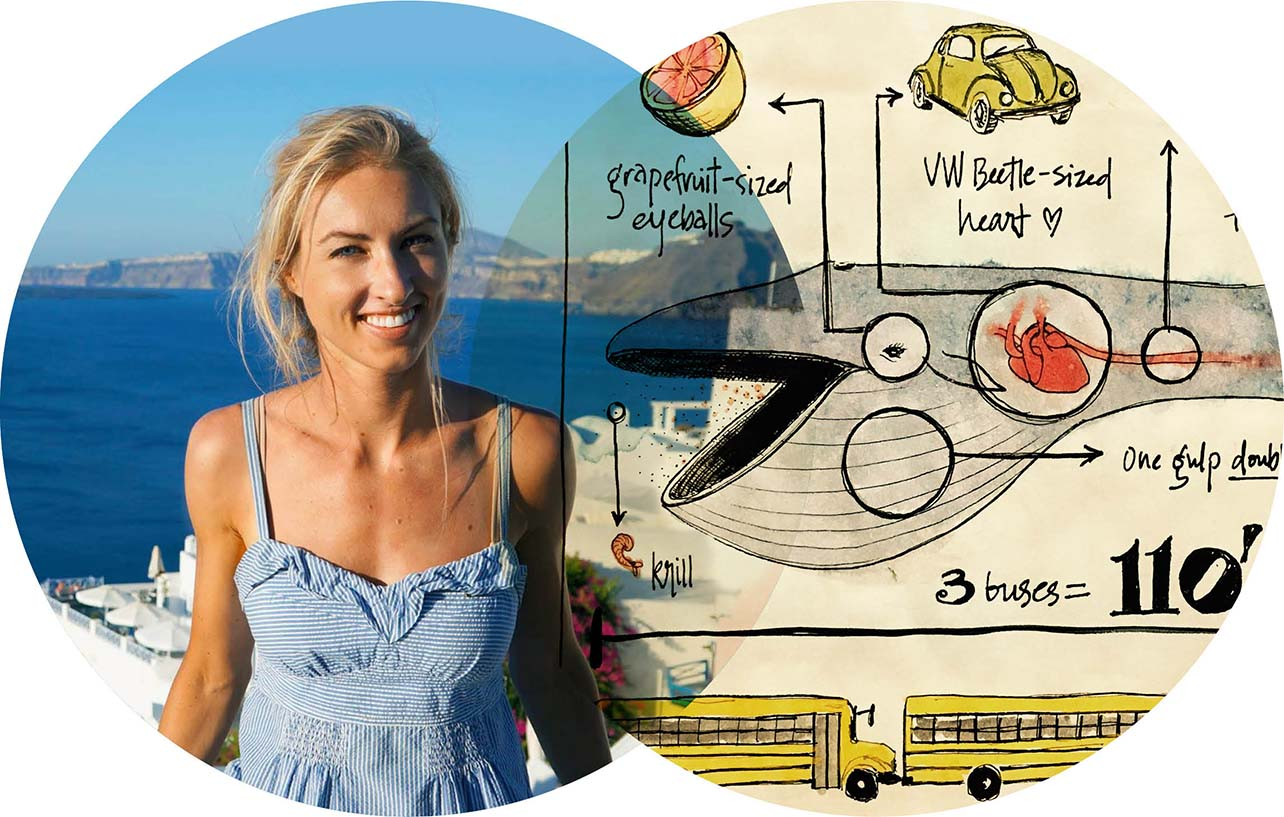
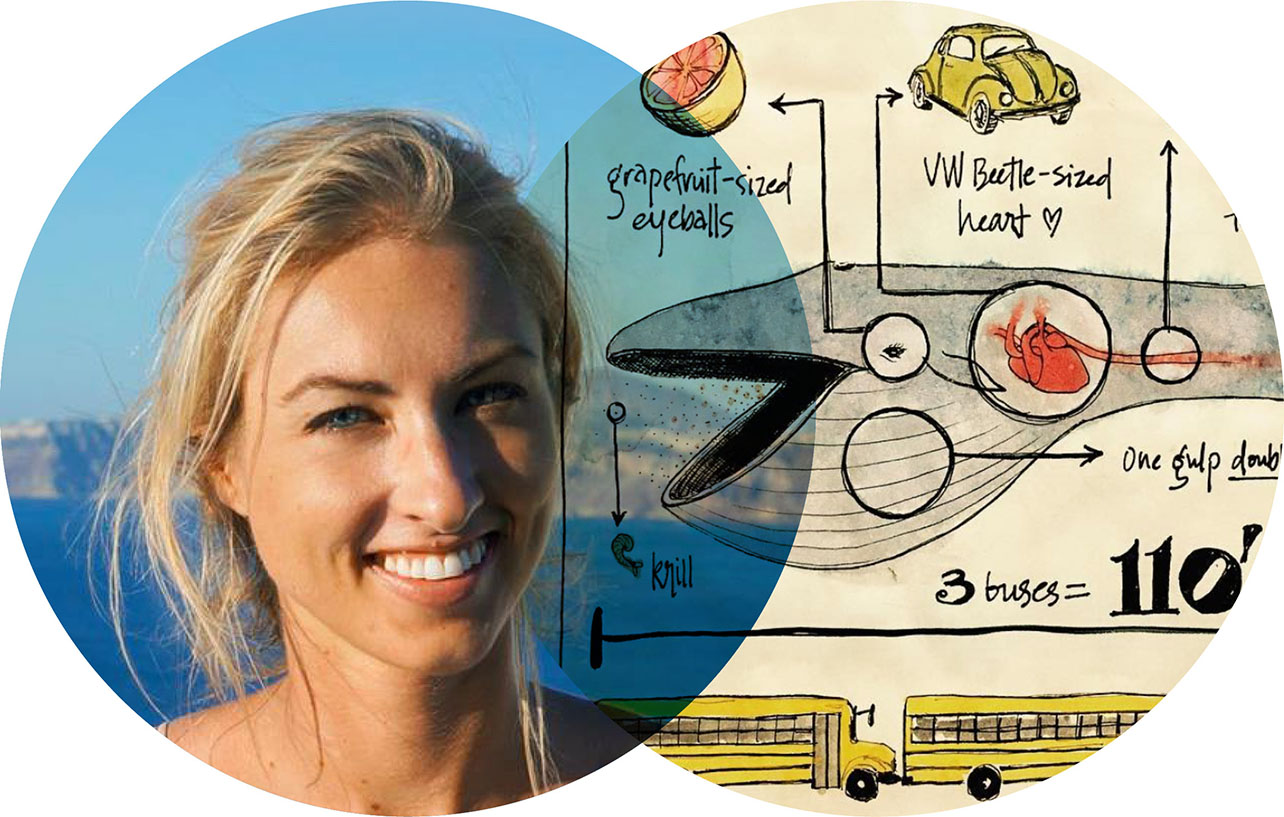
Fixed positioning of postglasses BGs
+ added tentative Measure of a Mtn intro + postglasses BGs

diff --git a/index.html b/index.html
@@ -31,7 +31,7 @@
 
 
 <!-- The url of the current page -->
-<meta property="og:url"                content=">" /> 
+<meta property="og:url"                content=">" />
 
 <!-- This one was found on Pinterest, may not be supported by Facebook -->
 <meta property="og:site_name"          content="Curiosity-Colored Glasses" />
@@ -83,7 +83,7 @@
 <!-- *************************************** ^^^^^ head-close.php snippet ^^^^^ LEAVE ALONE (except maybe favicon links) ^^^^^ *************************************** -->
 
 
-	<h1 id="blogname" class="blackbg">	
+	<h1 id="blogname" class="blackbg">
 		Curiosity-Colored Glasses
 	</h1>
 
@@ -99,7 +99,7 @@
 		<p id="comingsoon">Coming soon!</p>
 		<p class="untilthen s-textface bold">Until then, keep an eye on <a href="https://www.instagram.com/curiositycoloredglasses/" target="_blank" class="underline">@curiositycoloredglasses</a> on Instagram, follow <a href="https://twitter.com/CuriosityColor" target="_blank" class="underline">@curiositycolor</a> on Twitter, and sign up with your email below to be the first to know when Curiosity-Colored Glasses says “Hello, World!"</p>
 		<p class="untilthen s-textface bold">You can also read my <a href="https://liaprins.com/curiosity-colored-glasses" target="_blank" class="underline">portfolio post</a> explaining more about this project and detailing my progress so far.</p>
-		<p class="untilthen xs-textface bold">Expected launch is early spring of 2019.</p>
+		<p class="untilthen xs-textface bold">Expected launch is mid-2020.</p>
 
 	</div>  <!-- closing #comingsoon -->
 
@@ -155,7 +155,7 @@
 			<!-- lift -->
 			<img src="images/mask.svg" style="background-image: url(images/small-glasses/lift.jpg)" id="lift" class="small-postglasses postglasses" title="Is equal transit time real: does air really flow over the top of a wing faster, thereby generating lift? If so, what makes it do this?">
 
-		<!--		
+		<!--
 		<div id="parallax-medium"></div>
 		-->
 
@@ -253,7 +253,7 @@
 			<!-- wheels-on-film -->
 			<img src="images/mask.svg" style="background-image: url(images/big-glasses/wheels-on-film.jpg)" id="wheels-on-film" class="big-postglasses postglasses" title="Why do wheels sometimes look like they're turning backwards on film?">
 
-		
+
 
 		<div id="background"></div>
 
@@ -265,20 +265,20 @@
 
 		<div id="footercontent">
 
-			
+
 			<!-- Subscribe, via MailChimp -->
 			<form action="//curiositycoloredglasses.us14.list-manage.com/subscribe/post?u=05f8f85154975a52907f2ce4d&amp;id=086ebe8644" method="post" id="mc-embedded-subscribe-form" name="mc-embedded-subscribe-form" class="validate" target="_blank" novalidate>
 
 
 				<!-- For some reason, this needs to stay for the validation and ability to submit email -->
 				<span class="mc-field-group">
-	
+
 					<input type="email" value="" name="EMAIL" class="boxinput s-textface" id="mce-EMAIL" placeholder="Email address">
 
 				</span>
 
-	
-				<!-- NOT SURE WHY THIS IS NEEDED, BUT PROBABLY KEEP EVERYTHING INSIDE THIS TAG SO IT FUNCTIONS PROPERLY! -->		
+
+				<!-- NOT SURE WHY THIS IS NEEDED, BUT PROBABLY KEEP EVERYTHING INSIDE THIS TAG SO IT FUNCTIONS PROPERLY! -->
 			    <span style="position: absolute; left: -5000px;" aria-hidden="true">
 			    	<input type="text" name="b_05f8f85154975a52907f2ce4d_086ebe8644" tabindex="-1" value="">
 			    </span>
@@ -286,25 +286,25 @@
 
 				<!-- "Subscribe" button -->
 			    <input type="submit" value="Subscribe" name="subscribe" class="xs-display boxbutton subscribebutton" id="mc-embedded-subscribe">
-	
+
 
 			</form>
 
 
 			<!-- real people should not fill this in and expect good things - do not remove this or risk form bot signups-->
 			<!-- HONEYPOT VALIDATION? ^^^ PROBABLY KEEP EVERYTHING INSIDE THIS TAG SO IT FUNCTIONS PROPERLY! -->
-			<!-- 
+			<!--
 			<span id="mce-responses" class="clear">
 
 				<span class="response" id="mce-error-response" style="display:none">
 				</span>
-		
+
 				<span class="response" id="mce-success-response" style="display:none">
 				Thank you!
 				</span>
-	
+
 			</span> -->   <!-- real people should not fill this in and expect good things - do not remove this or risk form bot signups-->
-   
+
 
 			<p class="xs-textface" id="subscribemessage">
 				I’ll only ever email to let you know about new posts!
@@ -329,19 +329,19 @@
 			<span id="follow">
 
 				<!-- Link to my instagram page -->
-				<a href="https://www.instagram.com/curiositycoloredglasses/" title="Follow on Instagram" target="_blank"> 
+				<a href="https://www.instagram.com/curiositycoloredglasses/" title="Follow on Instagram" target="_blank">
 					<img src= "icons/Instagram.svg" alt="Follow me on Instagram" class="followicon socialicon">
 				</a>
 
 
 				<!-- Link to @CuriosityColor twitter page -->
-				<a href="https://twitter.com/CuriosityColor" title="Follow on Twitter" target="_blank"> 
+				<a href="https://twitter.com/CuriosityColor" title="Follow on Twitter" target="_blank">
 					<img src= "icons/Twitter.svg" alt="Follow me on Twitter" class="followicon socialicon">
 				</a>
 
 
 				<!-- Link to my portfolio website -->
-				<a href="http://liaprins.com/" target="_blank" id="portfolio" class="m-textface bold"> 
+				<a href="http://liaprins.com/" target="_blank" id="portfolio" class="m-textface bold">
 					liaprins.com
 				</a>
 

diff --git a/assets/css/somepages.css b/assets/css/somepages.css
@@ -131,6 +131,11 @@ figcaption {
     background-size: 160%;
     /* background-position: 41.5% 42%; */
     background-position: 50% 50%;    }
+.postglassescontainer > .circle,
+#postlink .circle {
+    background-size: 102%;
+    /* background-position: 41.5% 42%; */
+    background-position: 50% 50%;    }
 
 .circle,
 .stem {
@@ -896,6 +901,10 @@ figcaption {    /* :) This applies to all places captions appear (post page sing
 #postlink:hover .resultcircle {
     background-size: 160%;
     background-position: 50% 50%;    }
+.resultglassescontainer > .resultcircle,
+#postlink .resultcircle {
+        background-size: 101%;
+        background-position: 50% 50%;    }
 
 .resultcircle,
 .resultstem {

diff --git a/site/accounts/liaprins.php b/site/accounts/liaprins.php
@@ -7,10 +7,10 @@ email: liajprins@gmail.com
 language: en
 role: admin
 history:
+  - blog/measure-of-a-mountain
+  - blog/i-am-the-title-of-the-content-subfolder
   - questionqueue
   - hello
   - questionqueue/license-plates
-  - questionqueue/wheels-on-film
-  - blog/the-moons-dark-side
 firstname: Lia
 lastname: Prins
